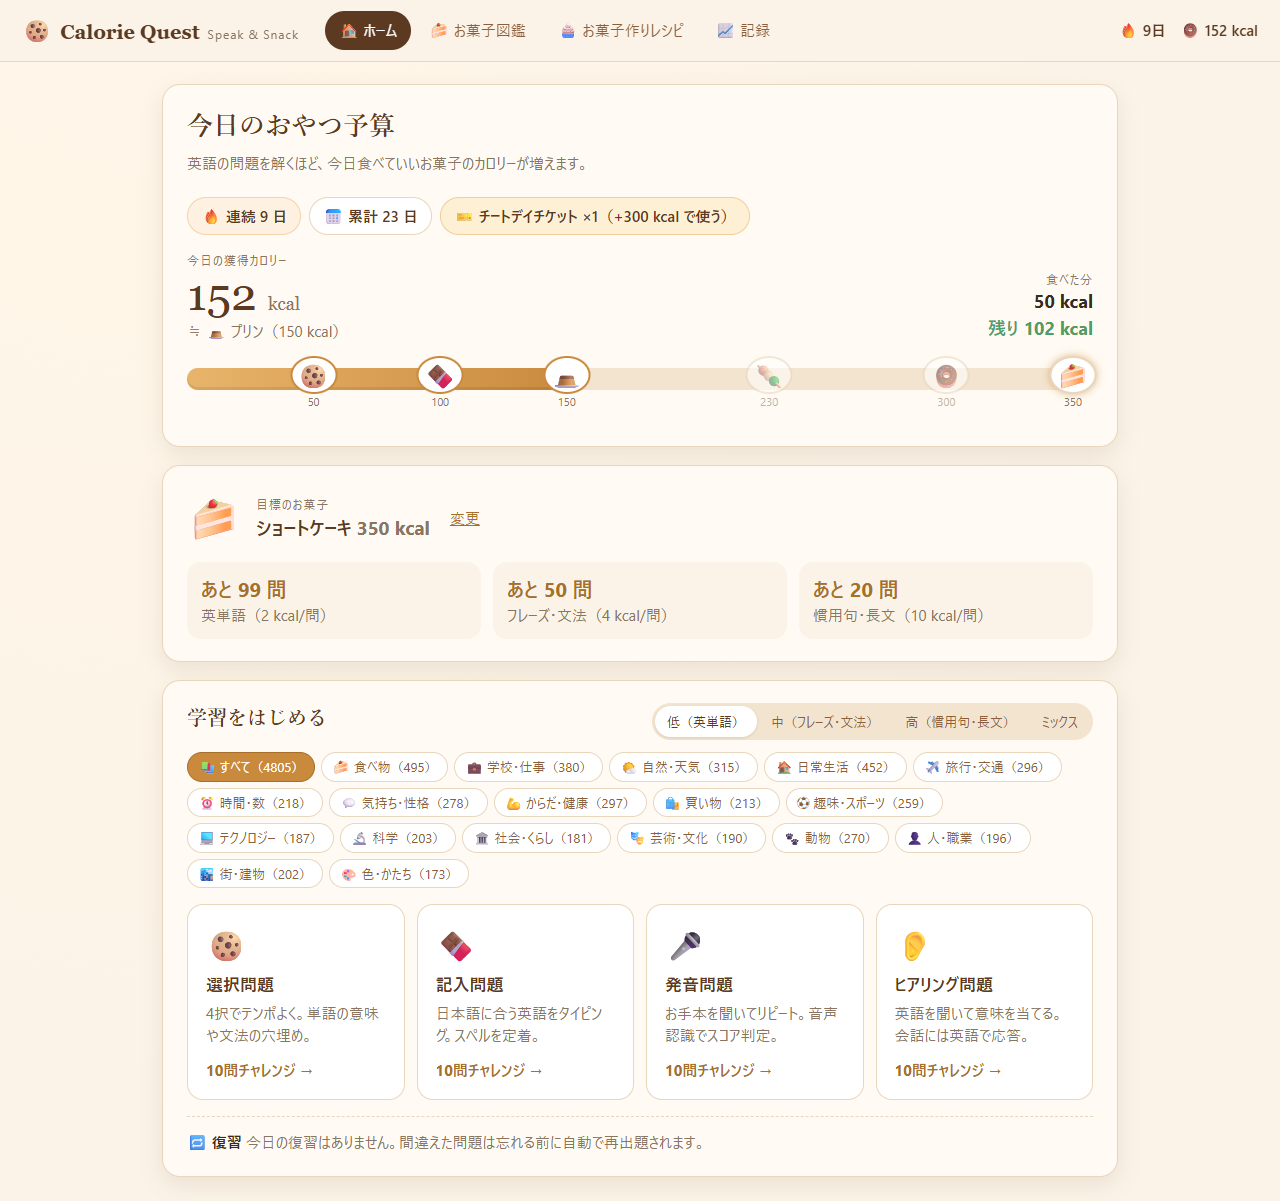
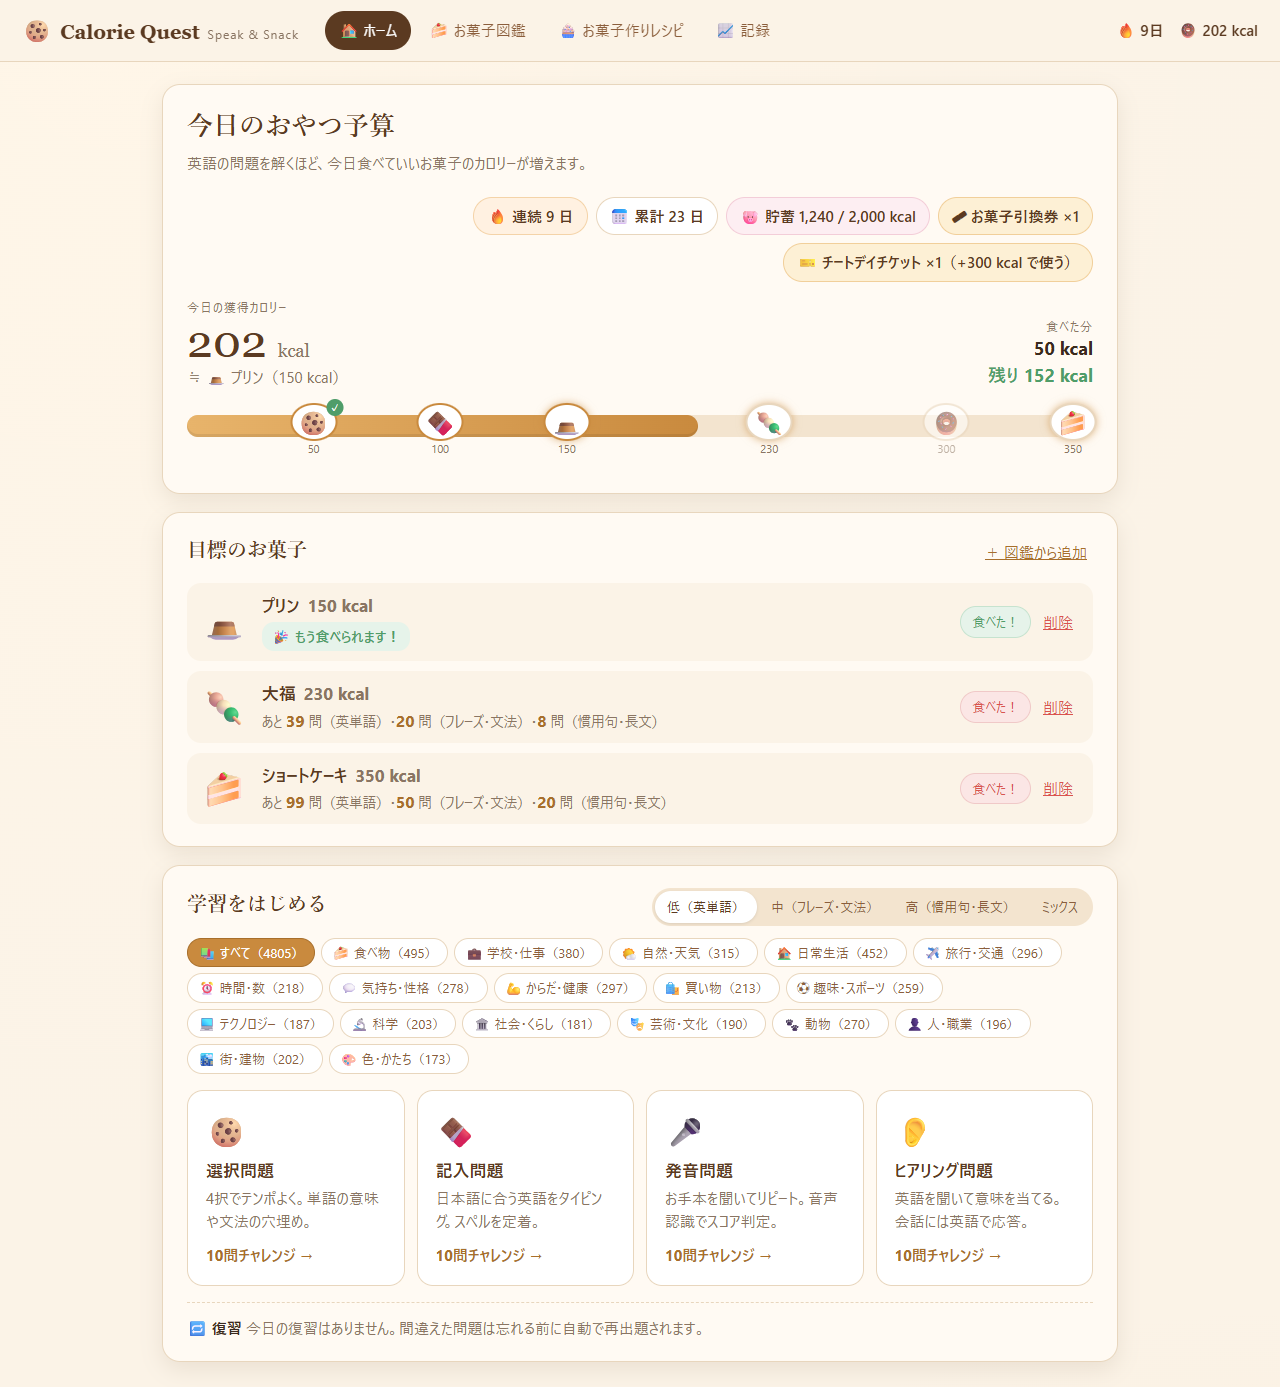
Retake the README screenshots for the current screens
Home now shows the savings and ticket badges, the clickable snack bar
with today's check mark, and several goals with 食べた！ / 削除. The snack
book joins the gallery for the ledger, savings bar and snack tickets.
Also taken again: a grammar answer, the recipe list and the record.

The browser mock's progress reset now keeps the goals, as the Rust
reset_progress does.

diff --git a/src/lib/mockBackend.ts b/src/lib/mockBackend.ts
@@ -910,11 +910,13 @@ export async function mockInvoke<T>(cmd: string, args: Record<string, unknown>):
     case "get_stats":
       return getStats() as T;
     case "reset_progress": {
-      // Like the snacks, the word list is the learner's own, not learning history.
-      const { snacks, recipe } = state;
+      // Like the snacks, the word list and the goals are the learner's own, not learning history
+      // (reset_progress in Rust leaves recipe_words and goal_snacks alone too).
+      const { snacks, recipe, goals } = state;
       state = freshState();
       state.snacks = snacks;
       state.recipe = recipe;
+      state.goals = goals;
       save();
       return undefined as T;
     }

diff --git a/README.md b/README.md
@@ -3,13 +3,15 @@
 英語の問題を解くと「今日食べていいお菓子のカロリー」が貯まる、軽量な英語学習ゲームです。
 仕様は [docs/spec.md](docs/spec.md) を参照してください。
 
-![ホーム画面: 今日のおやつ予算、目標のお菓子まであと何問か、学習の開始](docs/screenshots/home.png)
+![ホーム画面: 今日のおやつ予算（貯蓄と引換券のバッジ、お菓子アイコンのバー）、目標のお菓子ごとの「あと何問」と「食べた！」、学習の開始](docs/screenshots/home.png)
 
 | 文法問題の解説と単語の意味 | お菓子作りレシピ（単語帳） |
 | --- | --- |
 | ![文法問題に正解したところ。完成した文、文法ポイントの解説、単語にカーソルを合わせた意味の表示](docs/screenshots/study.png) | ![右クリックで集めた単語の一覧。例文と訳、習得済みの印](docs/screenshots/recipe.png) |
 
-![記録画面: 累計学習日数・連続学習・正答率と、この2週間の獲得カロリー](docs/screenshots/stats.png)
+| お菓子図鑑（家計簿・貯蓄・引換券） | 記録 |
+| --- | --- |
+| ![お菓子図鑑: 今日のカロリー家計簿、貯蓄の進み具合、お菓子引換券、お菓子ごとの「食べた！」と「引換券で食べる」](docs/screenshots/snacks.png) | ![記録画面: 累計学習日数・連続学習・正答率と、この2週間の獲得カロリー](docs/screenshots/stats.png) |
 
 <sub>画面はブラウザプレビュー（`npm run dev`、モックデータ）で撮影したものです。数値はデモ用です。</sub>
 
